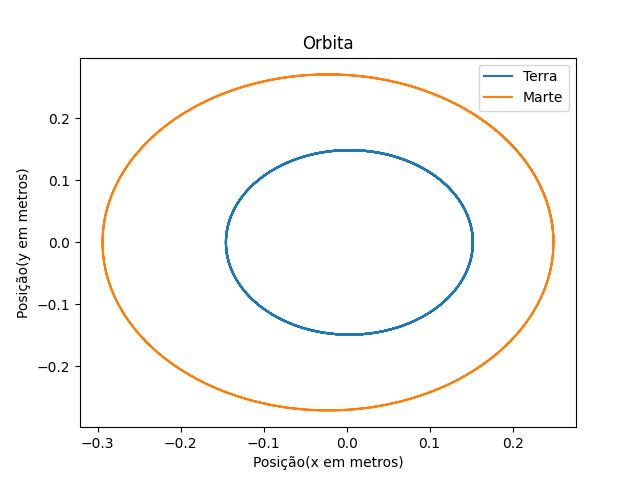
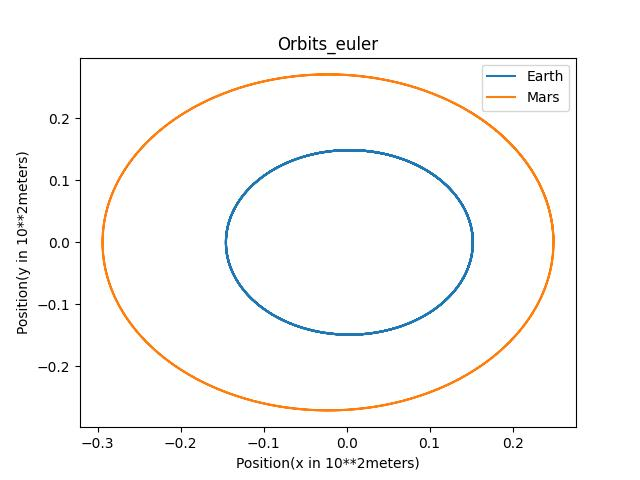
Fix: plot problem

diff --git a/methods_to_solution/runge_kutta.py b/methods_to_solution/runge_kutta.py
@@ -17,12 +17,12 @@ class Orbits_runge_kutta_method(MethodsInterface):
             vx_a0 = terra["vx_a"]
             vy_a0 = terra["vy_a"]
 
-            terra["pos_a_x"].append(terra["x_a"])
+            terra["pos_c_x"].append(terra["x_a"])
 
-            terra["pos_a_y"].append(terra["y_a"])
+            terra["pos_c_y"].append(terra["y_a"])
 
-            marte["pos_b_x"].append(marte["x_b"])
-            marte["pos_b_y"].append(marte["y_b"])
+            marte["pos_d_x"].append(marte["x_b"])
+            marte["pos_d_y"].append(marte["y_b"])
 
             div_b = (marte["x_b"] ** 2 + marte["y_b"] ** 2) ** (3 / 2)
             div_a = (terra["x_a"] ** 2 + terra["y_a"] ** 2) ** (3 / 2)
@@ -97,10 +97,10 @@ class Orbits_runge_kutta_method(MethodsInterface):
             marte["y_b"] = y_b0 + marte["vy_b"] * passo["dt_runge_kutta"]
 
         return (
-            terra["pos_a_x"],
-            terra["pos_a_y"],
-            marte["pos_b_x"],
-            marte["pos_b_y"],
+            terra["pos_c_x"],
+            terra["pos_c_y"],
+            marte["pos_d_x"],
+            marte["pos_d_y"],
         )
 
     def euler_method(self) -> None:

diff --git a/orbits.py b/orbits.py
@@ -16,8 +16,12 @@ class Orbits:
             "vx_a": 0,
             "vy_a": 2.530 * 10 ** (-3),  # 10**12 m/dia
             "Gm_a": 2.975 * 10 ** (-12),  # (10**12m)**3 / (dia)**2
+            # Euler
             "pos_a_x": [],
             "pos_a_y": [],
+            # RungeKutta
+            "pos_c_x": [],
+            "pos_c_y": [],
         }
 
         # Planeta marte
@@ -27,8 +31,12 @@ class Orbits:
             "vx_b": 0,
             "vy_b": 2.08 * 10 ** (-3),  # 10**12 m/dia
             "Gm_b": 3.197 * 10 ** (-14),  # (10**12m)**3 / (dia)**2
+            # Euler
             "pos_b_x": [],
             "pos_b_y": [],
+            # Rungekutta
+            "pos_d_x": [],
+            "pos_d_y": [],
         }
 
     def apply_euler_method(self, gravitational_force: Type[MethodsInterface]):

diff --git a/plot_orbits/plot.py b/plot_orbits/plot.py
@@ -11,10 +11,13 @@ class Plot:
         marte_x,
         marte_y,
     ):
-        plt.plot(terra_x, terra_y, label="Terra")
-        plt.plot(marte_x, marte_y, label="Marte")
-        plt.title("Orbita")
-        plt.xlabel("Posição(x em metros)")
-        plt.ylabel("Posição(y em metros)")
+
+        plt.figure()
+
+        plt.plot(terra_x, terra_y, label="Earth")
+        plt.plot(marte_x, marte_y, label="Mars")
+        plt.title(f"Orbit_{name}")
+        plt.xlabel("Position(x in 10**2meters)")
+        plt.ylabel("Position(y in 10**2meters)")
         plt.legend()
         plt.savefig(f"method_{name}_orbit_plot.jpeg")
